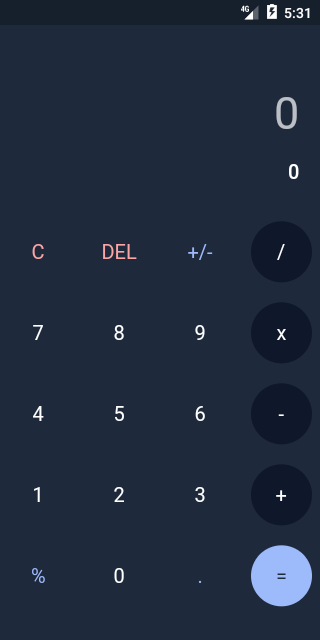
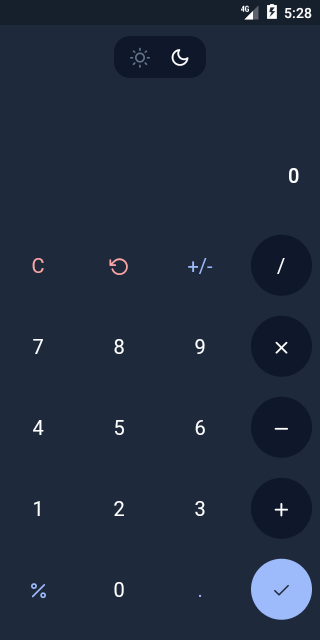
Done with the Looks

diff --git a/lib/widgets/numberDisplay.dart b/lib/widgets/numberDisplay.dart
@@ -1,5 +1,5 @@
 import 'package:flutter/material.dart';
-import 'package:theme_provider/theme_provider.dart';
+import '../widgets/numberPad/CircleButton/button.model.dart';
 
 class NumberDisplay extends StatelessWidget {
   final String userInput;
@@ -13,19 +13,49 @@ class NumberDisplay extends StatelessWidget {
         child:
             Column(mainAxisAlignment: MainAxisAlignment.end, children: <Widget>[
       Container(
-        padding: const EdgeInsets.all(20),
-        alignment: Alignment.centerRight,
-        child: Text(userInput.isEmpty ? '0' : userInput,
-            style: Theme.of(context).textTheme.headline3),
-      ),
+          padding: const EdgeInsets.only(right: 20, left: 20),
+          alignment: Alignment.centerRight,
+          child: SingleChildScrollView(
+            scrollDirection: Axis.horizontal,
+            child: Text(
+              answer.isEmpty ? '0' : answer,
+              style: Theme.of(context).textTheme.headline6,
+            ),
+          )),
       Container(
-        padding: const EdgeInsets.only(bottom: 30, right: 20, left: 20),
-        alignment: Alignment.centerRight,
-        child: Text(
-          answer.isEmpty ? '0' : answer,
-          style: Theme.of(context).textTheme.headline6,
-        ),
-      ),
+          padding: const EdgeInsets.all(20),
+          alignment: Alignment.centerRight,
+          child: SingleChildScrollView(
+            scrollDirection: Axis.horizontal,
+            child: Row(
+                mainAxisAlignment: MainAxisAlignment.end,
+                children: userInput
+                    .split('')
+                    .map((e) => "+-%x".contains(e)
+                        ? Icon(
+                            getIconFromOperator(e),
+                            color: Theme.of(context).colorScheme.onSurface,
+                            shadows: [
+                              Shadow(
+                                blurRadius: 0,
+                                color: Theme.of(context).colorScheme.onSurface,
+                                offset: const Offset(1, -1),
+                              ),
+                              Shadow(
+                                blurRadius: 0,
+                                color: Theme.of(context).colorScheme.onSurface,
+                                offset: const Offset(-1, -1),
+                              ),
+                            ],
+                            size: 42,
+                          )
+                        : Text(e,
+                            style: TextStyle(
+                                color: Theme.of(context).colorScheme.onSurface,
+                                fontSize: 42,
+                                fontWeight: FontWeight.w600)))
+                    .toList()),
+          )),
     ]));
   }
 }

diff --git a/lib/ui/appBar/themeSwitch.dart b/lib/ui/appBar/themeSwitch.dart
@@ -1,0 +1,45 @@
+import 'package:flutter/material.dart' hide IconButton;
+import 'package:theme_provider/theme_provider.dart';
+import 'package:feather_icons/feather_icons.dart';
+
+class ThemeSwitch extends StatelessWidget {
+  const ThemeSwitch({Key? key}) : super(key: key);
+
+  @override
+  Widget build(BuildContext context) {
+    return RawMaterialButton(
+        fillColor: Theme.of(context).colorScheme.surface,
+        highlightColor: Theme.of(context).brightness == Brightness.dark
+            ? Theme.of(context).primaryColorDark
+            : Theme.of(context).primaryColorLight,
+        elevation: 0,
+        focusElevation: 0,
+        highlightElevation: 0,
+        hoverElevation: 0,
+        shape: RoundedRectangleBorder(
+            borderRadius: BorderRadius.circular(16), side: BorderSide.none),
+        constraints: const BoxConstraints(
+            maxWidth: 92, maxHeight: 42, minWidth: 92, minHeight: 42),
+        onPressed: () => ThemeProvider.controllerOf(context).nextTheme(),
+        child: Padding(
+          padding: const EdgeInsets.only(left: 16, right: 16),
+          child: Row(
+            mainAxisAlignment: MainAxisAlignment.spaceBetween,
+            children: [
+              Icon(
+                FeatherIcons.sun,
+                size: 20,
+                color: Color(Theme.of(context).brightness == Brightness.light
+                    ? 0xFF000000
+                    : 0xFF64748b),
+              ),
+              Icon(FeatherIcons.moon,
+                  size: 20,
+                  color: Color(Theme.of(context).brightness == Brightness.light
+                      ? 0xff64748b
+                      : 0xFFFFFFFF))
+            ],
+          ),
+        ));
+  }
+}

diff --git a/lib/widgets/numberPad/numberPad.dart b/lib/widgets/numberPad/numberPad.dart
@@ -1,8 +1,8 @@
 import 'package:flutter/material.dart';
 
-import '../ui/CircleButton/button.dart';
-import '../services/math.dart';
-import '../services/calc.model.dart';
+import './CircleButton/button.dart';
+import '../../services/math.dart';
+import '../../services/calc.model.dart';
 
 class NumberPad extends StatelessWidget {
   CalcProvider val;
@@ -11,7 +11,7 @@ class NumberPad extends StatelessWidget {
   @override
   Widget build(BuildContext context) {
     return Expanded(
-      flex: 2,
+      flex: 3,
       child: GridView.builder(
           itemCount: buttons.length,
           gridDelegate: const SliverGridDelegateWithFixedCrossAxisCount(
@@ -33,16 +33,17 @@ class NumberPad extends StatelessWidget {
                     calcEqual(val);
                   }
                 } else if (btn == "=") {
+                  final userI = val.userInput;
                   val.userInput =
                       val.answer.isEmpty ? val.userInput : val.answer;
-                  val.answer = '';
+                  val.answer = userI;
                 } else if (btn == "+/-") {
                   if (val.userInput.isNotEmpty) {
                     toggleNegative(val);
                     calcEqual(val);
                   }
                 } else {
-                  if ("/x+-%.".contains(btn) &&
+                  if ("/x+%.".contains(btn) &&
                       "/x+-%.".contains(
                           val.userInput.substring(val.userInput.length - 1))) {
                     return;

diff --git a/lib/widgets/numberPad/CircleButton/button.dart b/lib/widgets/numberPad/CircleButton/button.dart
@@ -34,24 +34,22 @@ class CircleButton extends StatelessWidget {
       }[tier],
       elevation: 0,
       shape: RoundedRectangleBorder(
-          borderRadius: BorderRadius.circular(99999), side: BorderSide.none),
+          borderRadius: BorderRadius.circular(9999), side: BorderSide.none),
       child: ClipRRect(
         child: Center(
-          child: Text(
-            buttonText,
-            style: TextStyle(
-              color: {
-                ButtonTier.highlighted: Theme.of(context).primaryColor,
-                ButtonTier.regular:
-                    Theme.of(context).textTheme.bodyLarge!.color,
-                ButtonTier.operator:
-                    Theme.of(context).textTheme.bodyLarge!.color,
-                ButtonTier.danger: Theme.of(context).errorColor,
-                ButtonTier.equal: Theme.of(context).scaffoldBackgroundColor,
-              }[tier],
-              fontSize: 20,
-            ),
-          ),
+          child: "+-x%DEL=".contains(buttonText)
+              ? Icon(
+                  getIconFromOperator(buttonText),
+                  size: 20,
+                  color: getColorFromTier(tier, context),
+                )
+              : Text(
+                  buttonText,
+                  style: TextStyle(
+                    color: getColorFromTier(tier, context),
+                    fontSize: 20,
+                  ),
+                ),
         ),
       ),
     );

diff --git a/lib/widgets/numberPad/CircleButton/button.model.dart b/lib/widgets/numberPad/CircleButton/button.model.dart
@@ -1,0 +1,63 @@
+import 'package:feather_icons/feather_icons.dart';
+import 'package:flutter/material.dart';
+
+enum ButtonTier { equal, regular, highlighted, operator, danger }
+
+final List<String> buttons = [
+  'C',
+  'DEL',
+  '+/-',
+  '/',
+  '7',
+  '8',
+  '9',
+  'x',
+  '4',
+  '5',
+  '6',
+  '-',
+  '1',
+  '2',
+  '3',
+  '+',
+  '%',
+  '0',
+  '.',
+  '=',
+];
+
+ButtonTier getTier(int index) {
+  final x = buttons[index];
+  if ('/x+-'.contains(x)) {
+    return ButtonTier.operator;
+  } else if ('DELC'.contains(x)) {
+    return ButtonTier.danger;
+  } else if ("%.+/-".contains(x)) {
+    return ButtonTier.highlighted;
+  } else if (x == "=") {
+    return ButtonTier.equal;
+  } else {
+    return ButtonTier.regular;
+  }
+}
+
+Color getColorFromTier(ButtonTier tier, BuildContext context) {
+  return {
+    ButtonTier.highlighted: Theme.of(context).primaryColor,
+    ButtonTier.regular: Theme.of(context).textTheme.bodyLarge!.color,
+    ButtonTier.operator: Theme.of(context).textTheme.bodyLarge!.color,
+    ButtonTier.danger: Theme.of(context).errorColor,
+    ButtonTier.equal: Theme.of(context).scaffoldBackgroundColor,
+  }[tier]!;
+}
+
+IconData getIconFromOperator(String op) {
+  return {
+    "+": FeatherIcons.plus,
+    "-": FeatherIcons.minus,
+    "x": FeatherIcons.x,
+    "%": FeatherIcons.percent,
+    "DEL": FeatherIcons.rotateCcw,
+    "=": FeatherIcons.check,
+  }[op]!;
+}

diff --git a/lib/screens/calculator.dart b/lib/screens/calculator.dart
@@ -1,9 +1,10 @@
-import 'package:flutter/material.dart';
+import 'package:flutter/material.dart' hide AppBar;
 import 'package:provider/provider.dart';
 
 import '../services/calc.model.dart';
 import '../widgets/numberDisplay.dart';
-import '../widgets/numberPad.dart';
+import '../widgets/numberPad/numberPad.dart';
+import '../ui/appBar/appBar.dart';
 
 class Calculator extends StatefulWidget {
   const Calculator({Key? key}) : super(key: key);
@@ -17,9 +18,10 @@ class _CalculatorState extends State<Calculator> {
   Widget build(BuildContext context) {
     return Consumer<CalcProvider>(
         builder: (context, val, child) => Scaffold(
+              appBar: AppBar(),
               backgroundColor: Theme.of(context).scaffoldBackgroundColor,
               body: Column(
-                mainAxisAlignment: MainAxisAlignment.spaceBetween,
+                mainAxisAlignment: MainAxisAlignment.center,
                 children: <Widget>[
                   NumberDisplay(userInput: val.userInput, answer: val.answer),
                   NumberPad(val: val)

diff --git a/lib/services/math.dart b/lib/services/math.dart
@@ -8,13 +8,19 @@ void calcEqual(CalcProvider val) {
   }
   try {
     Expression exp = Parser().parse(input);
-    final ans = exp.evaluate(EvaluationType.REAL, ContextModel());
-    ans % 1 == 0
-        ? val.answer = (ans as double).toInt().toString()
-        : val.answer = ans.toString();
+    val.answer =
+        _formatAnswer(exp.evaluate(EvaluationType.REAL, ContextModel()));
   } catch (e) {
     val.answer = 'Error';
   }
+}
+
+String _formatAnswer(double ans) {
+  return ans % 1 == 0
+      ? (ans).toInt().toString().replaceAllMapped(
+          RegExp(r'(\d{1,3})(?=(\d{3})+(?!\d))'), (Match m) => '${m[1]},')
+      : ans.toString().replaceAllMapped(
+          RegExp(r'(\d{1,3})(?=(\d{3})+(?!\d))'), (Match m) => '${m[1]},');
 }
 
 void toggleNegative(CalcProvider val) {

diff --git a/lib/ui/appBar/appBar.dart b/lib/ui/appBar/appBar.dart
@@ -1,0 +1,24 @@
+import 'package:flutter/material.dart' hide IconButton;
+
+import 'themeSwitch.dart';
+
+class AppBar extends StatelessWidget implements PreferredSizeWidget {
+  const AppBar({Key? key}) : super(key: key);
+
+  @override
+  Widget build(BuildContext context) {
+    return PreferredSize(
+        preferredSize: const Size.fromHeight(120),
+        child: SafeArea(
+          child: Padding(
+            padding: const EdgeInsets.all(8),
+            child: Row(
+              children: const [Spacer(), ThemeSwitch(), Spacer()],
+            ),
+          ),
+        ));
+  }
+
+  @override
+  Size get preferredSize => const Size.fromHeight(120);
+}
